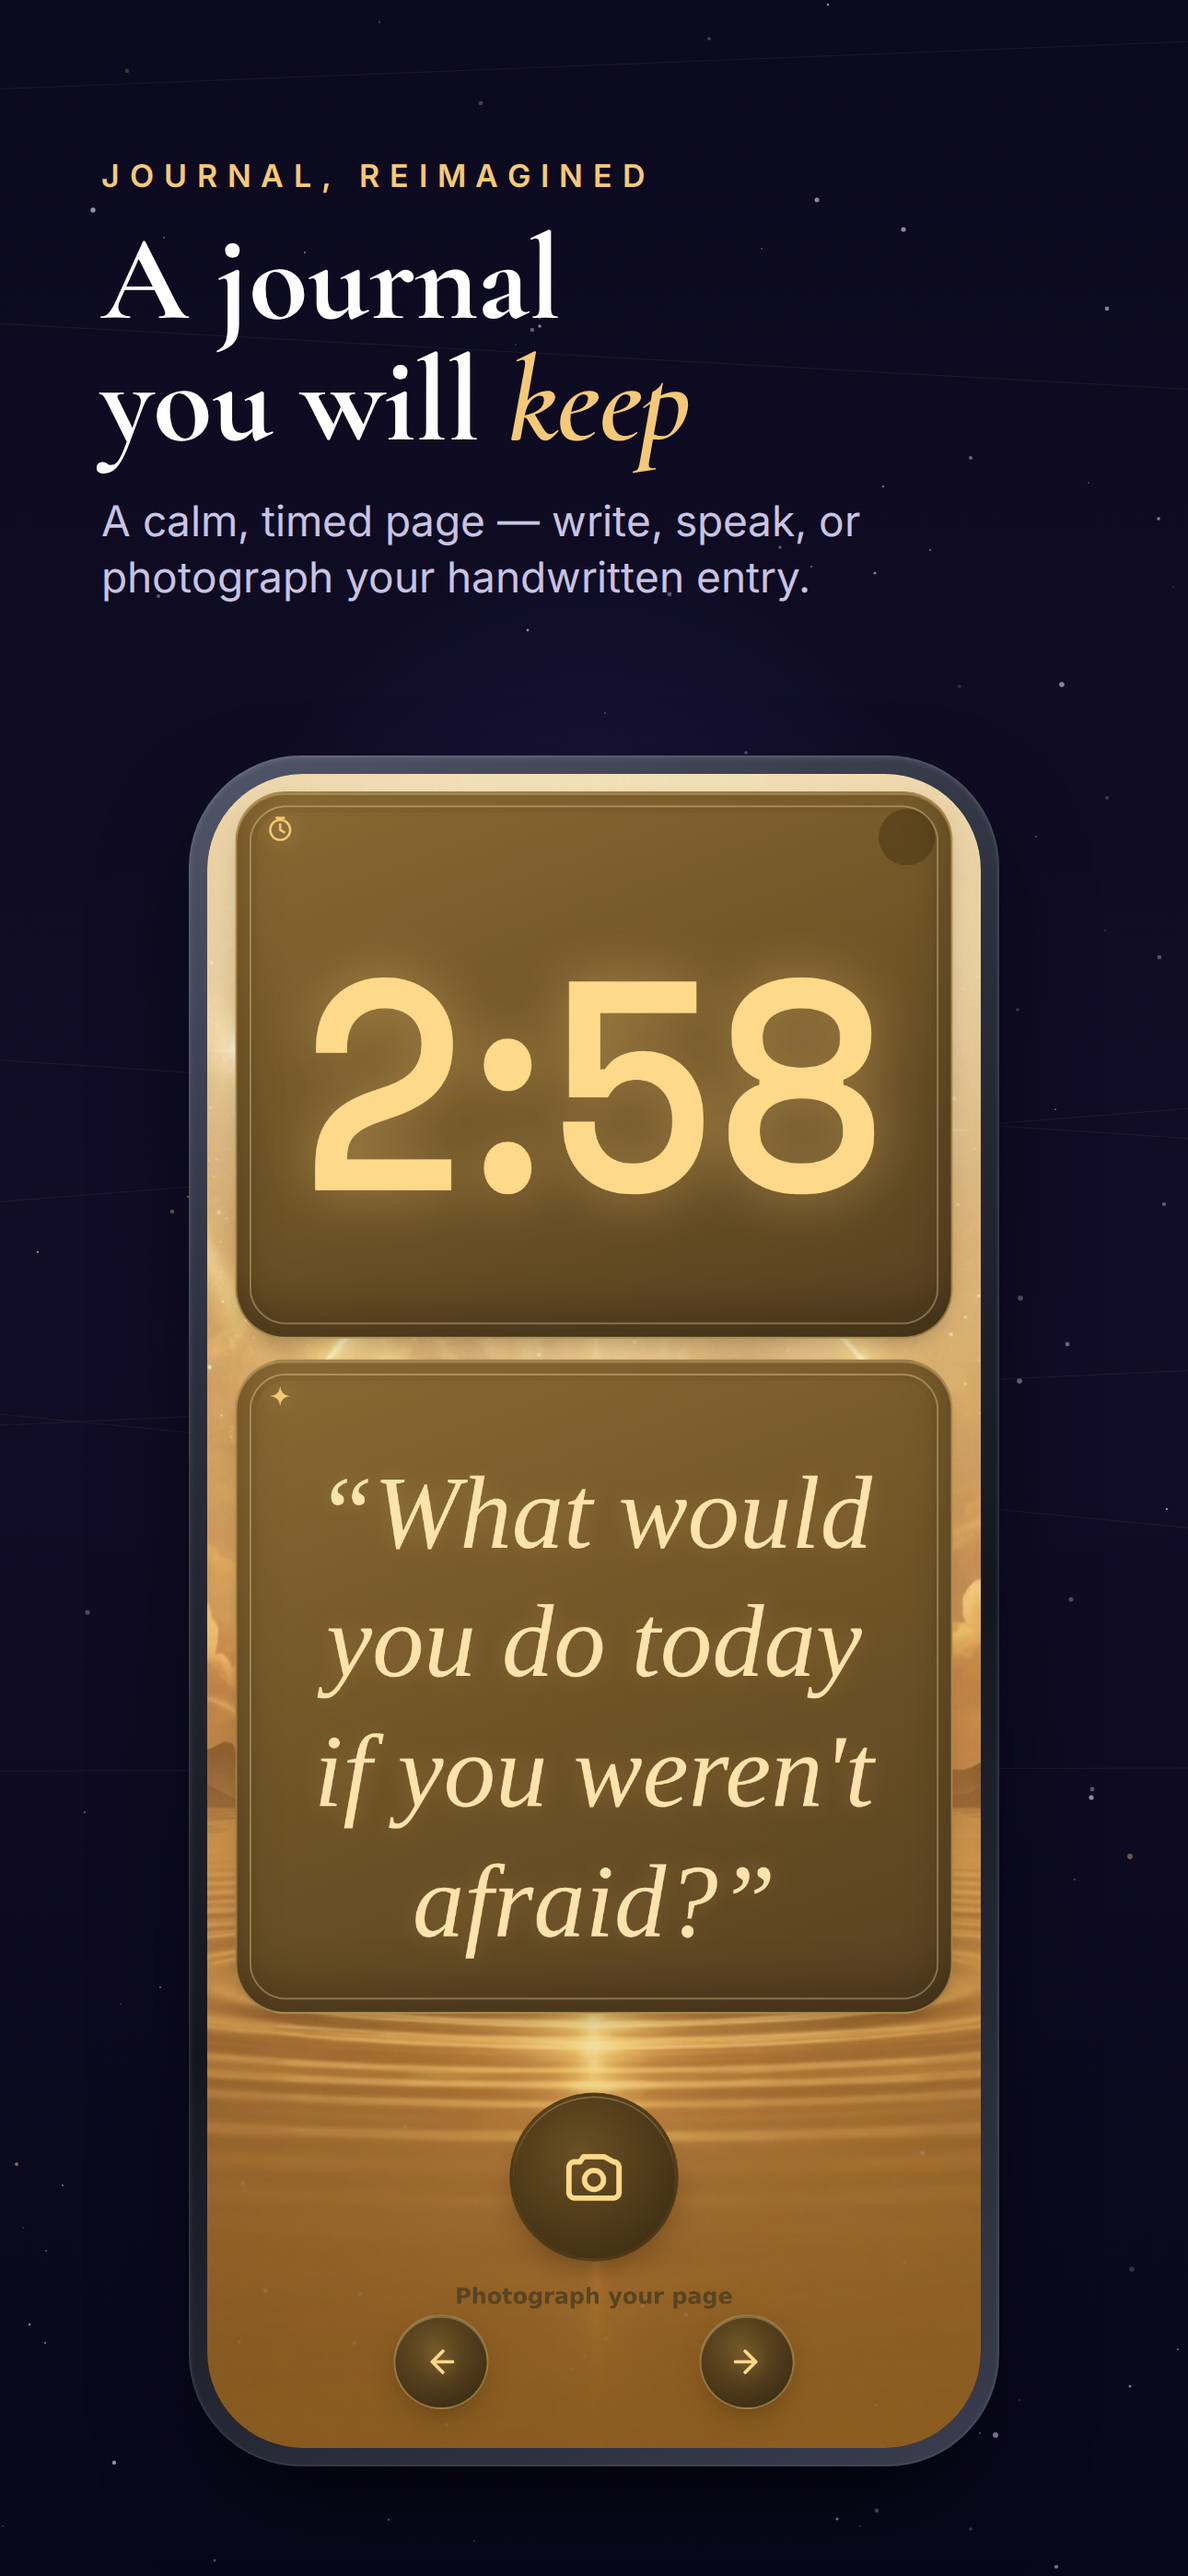
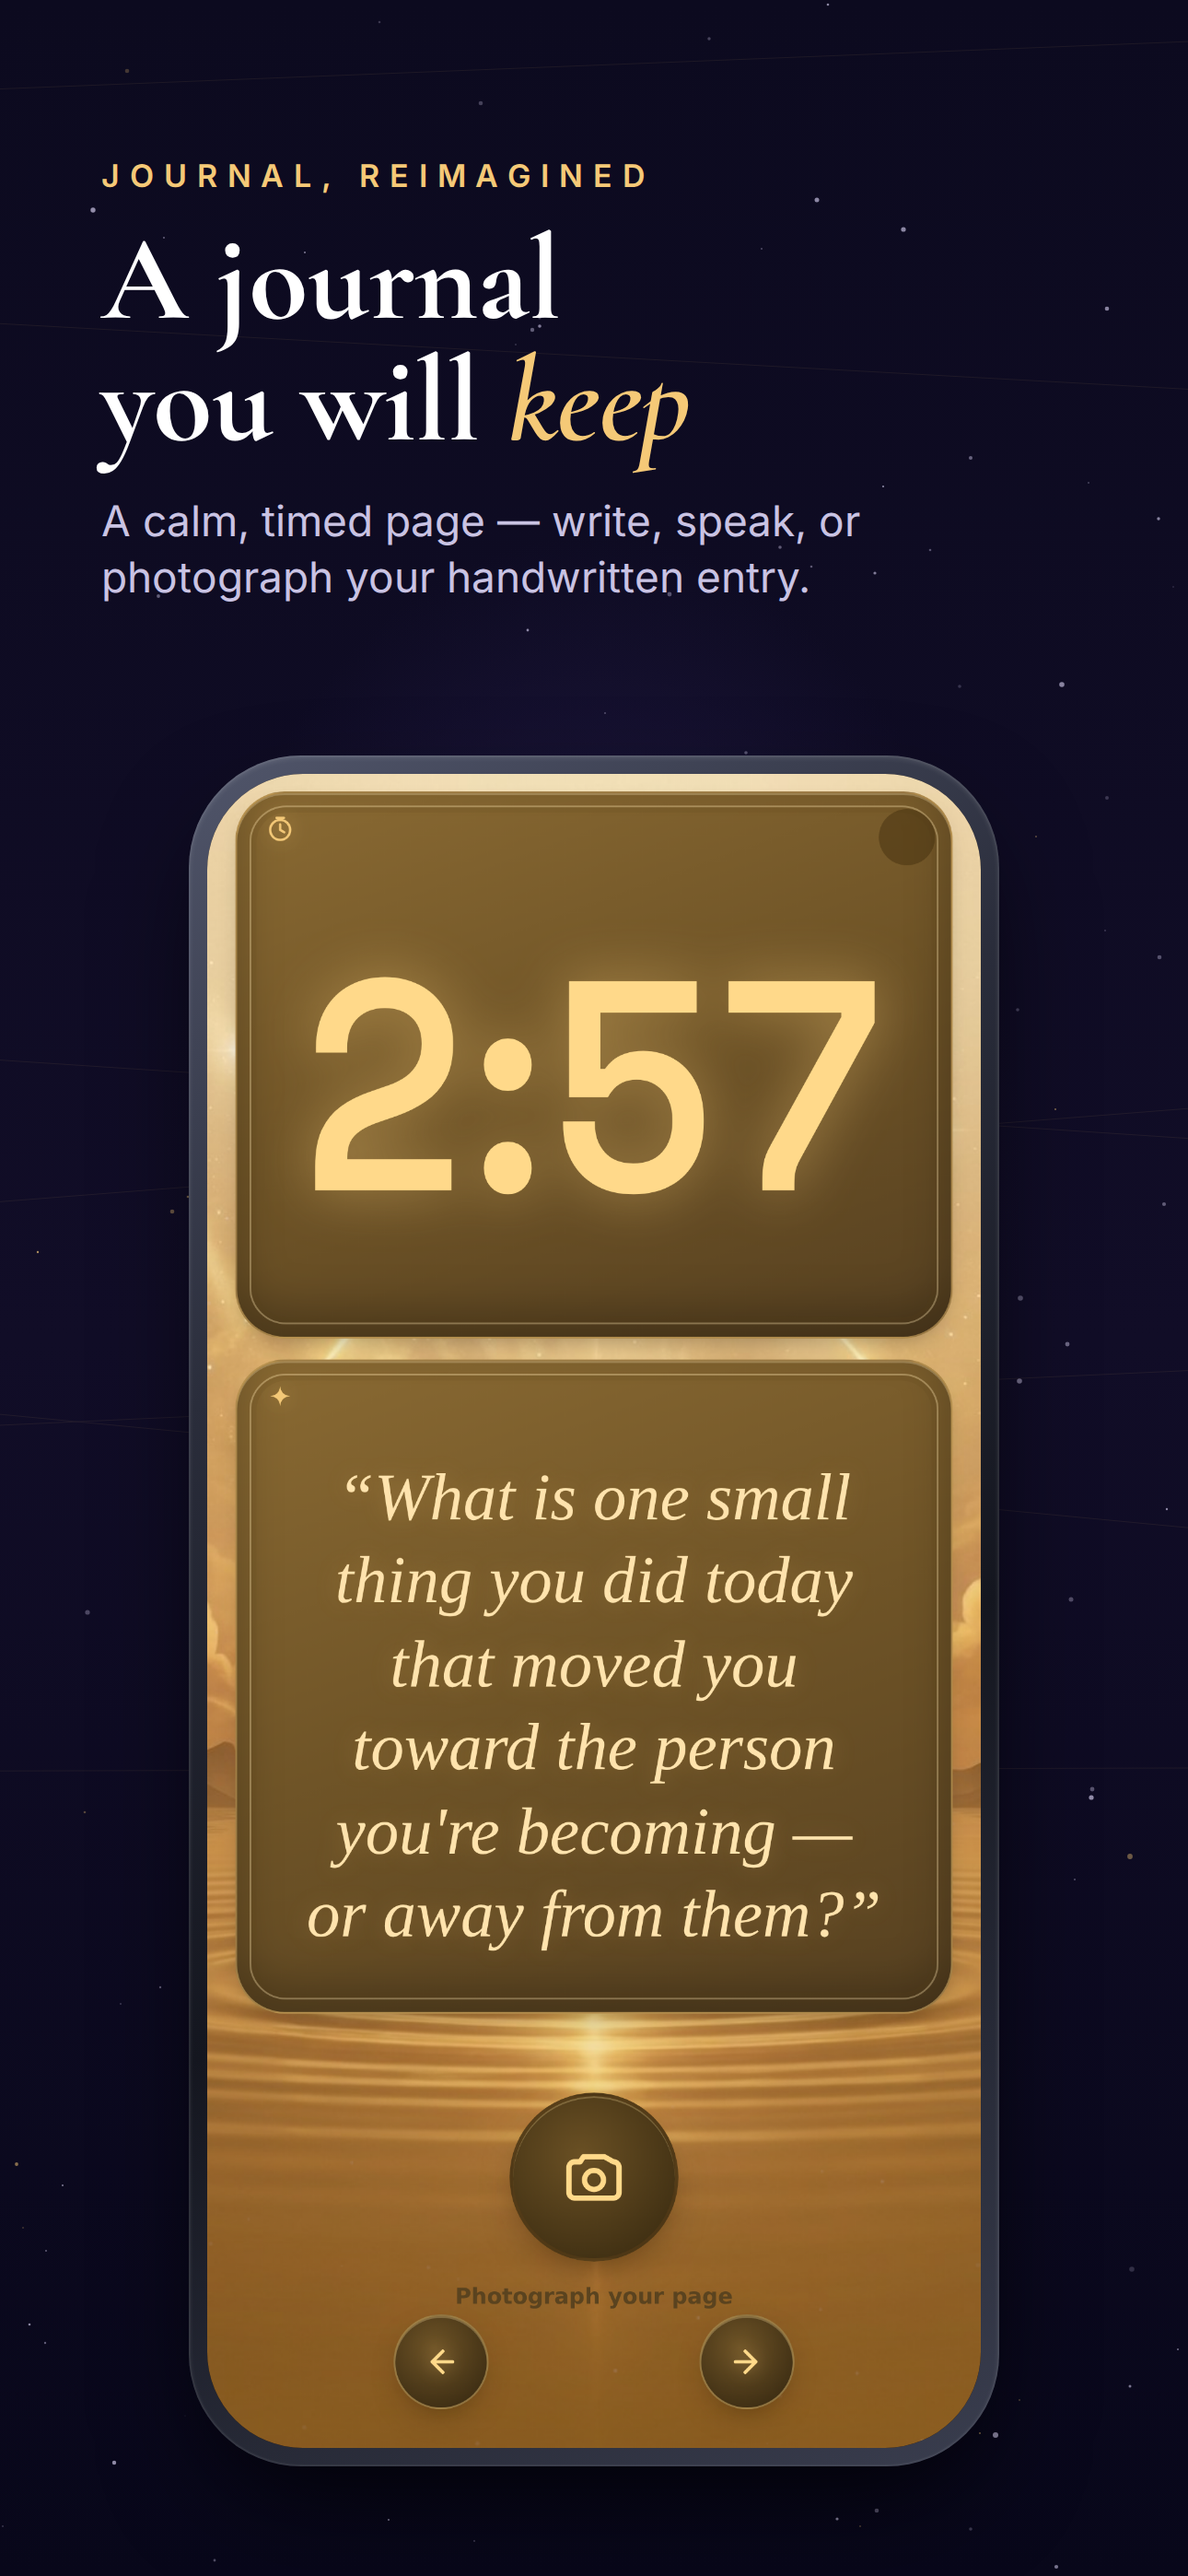
lumen: replace the "weren't afraid" daily prompt with a more reflective one (v104)
New prompt: "What is one small thing you did today that moved you toward the
person you're becoming — or away from them?" — swapped in both the server
day-prompt pool and the client rotation. Refreshed App Store frame 3 to show it.

Changed region(s): [[0.2481, 0.5601, 0.7442, 0.7779], [0.5891, 0.3734, 0.7442, 0.4667]]

diff --git a/lumen/server.py b/lumen/server.py
@@ -1201,7 +1201,7 @@ def shop_for(c, u):
 PROMPTS = [
     "What are you carrying today that isn't yours to hold?",
     "Where did you feel most alive this week — and what were you doing?",
-    "What would you do today if you weren't afraid?",
+    "What is one small thing you did today that moved you toward the person you're becoming — or away from them?",
     "What is one thing you can set down right now, even for an hour?",
     "Who deserves your gratitude today — and have you told them?",
     "What does your body need that your mind keeps overruling?",
@@ -6722,7 +6722,7 @@ function splitSents(text){return (text||'').match(/[^.!?]+[.!?]+(?:\s|$)|[^.!?]+
 const JPROMPTS=[
   "What are you carrying today that isn't yours to hold?",
   "Where did you feel most alive this week — and what were you doing?",
-  "What would you do today if you weren't afraid?",
+  "What is one small thing you did today that moved you toward the person you're becoming — or away from them?",
   "What is one thing you can set down right now, even for an hour?",
   "Who deserves your gratitude today — and have you told them?",
   "What does your body need that your mind keeps overruling?",
@@ -10431,7 +10431,7 @@ h1{color:#f5c977;font-size:26px;margin:0 0 4px}h2{color:#a855f7;font-size:17px;m
 </div></body></html>"""
 
 SERVICE_WORKER = r"""
-const CACHE = 'lumen-v103';
+const CACHE = 'lumen-v104';
 const STATIC = ['icon-192.png', 'icon-512.png', 'manifest.webmanifest'];
 self.addEventListener('install', e => {
   self.skipWaiting();
